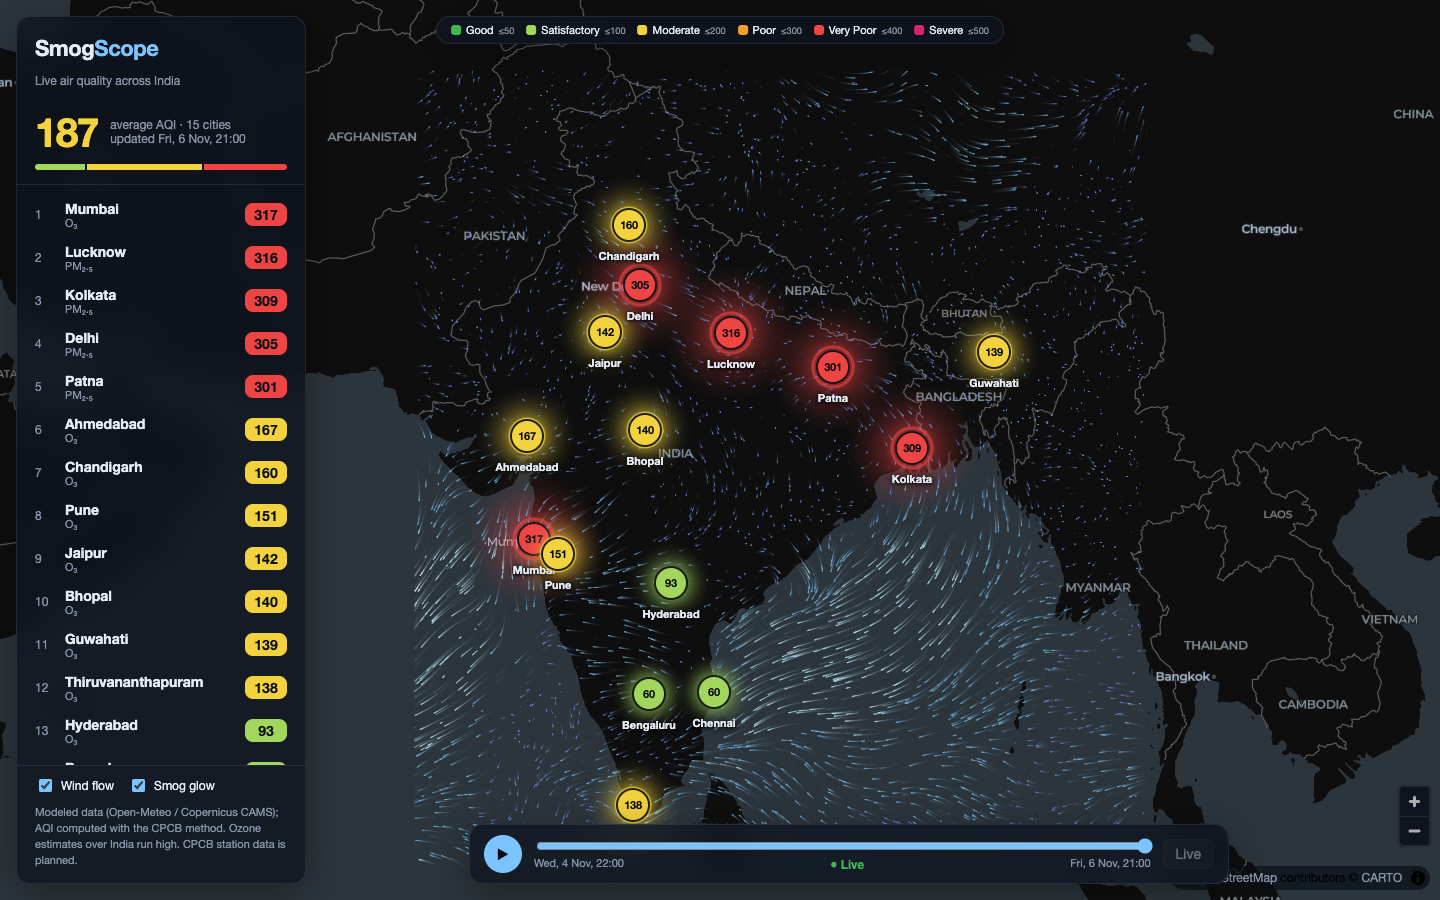
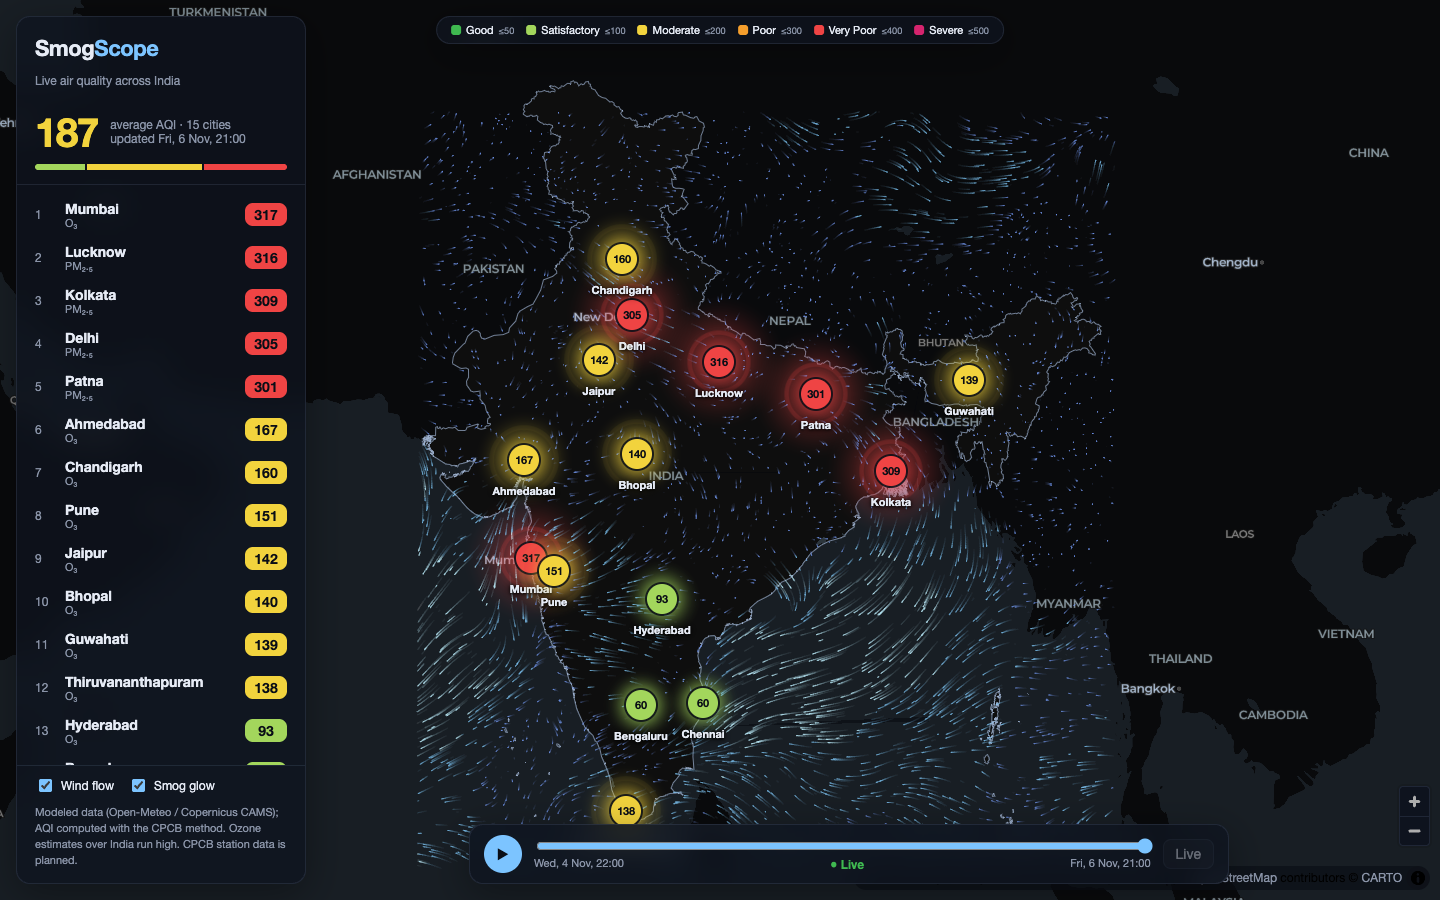
Show India's official boundary (Survey of India) on the map
- Hide the OSM-based basemap border layers, which use de facto lines in J&K/Ladakh
- Draw India's official outline (Survey of India via DataMeet, CC-BY-SA) with an
  outside-India dimming mask, below basemap labels; attribution in map credits
- scripts/simplify_boundary.py: 281,810 -> 4,884 points (78 KB), closed-ring-safe RDP
- tests/test_boundary.py: point-in-polygon checks (PoK, Gilgit, Aksai Chin inside;
  Lahore, Islamabad, Kathmandu outside) and the 37N northern tip
- Initial view fits the full official extent; design doc Q37; README updated

diff --git a/web/src/components/MapView.tsx b/web/src/components/MapView.tsx
@@ -6,9 +6,45 @@ import { CATEGORIES, categoryInfo, colorOf } from '../aqi'
 import WindLayer from './WindLayer'
 
 // Free vector basemap (CARTO Dark Matter, OpenStreetMap data), no API key needed.
-// Note: OSM-based tiles draw international boundaries per OSM conventions, which
-// differ from India's official map in disputed areas (see design-qa.md, Q30).
 const STYLE_URL = 'https://basemaps.cartocdn.com/gl/dark-matter-gl-style/style.json'
+
+// The basemap draws borders the OSM way (de facto lines in Jammu & Kashmir and
+// Ladakh). These layers are hidden and India's OFFICIAL boundary (Survey of India)
+// is drawn instead, from web/public/india-boundary.geojson (design-qa.md, Q37).
+const BASEMAP_BORDER_LAYERS = ['boundary_country_outline', 'boundary_country_inner', 'boundary_state', 'boundary_county']
+const BOUNDARY_URL = '/india-boundary.geojson'
+
+type IndiaBoundary = GeoJSON.FeatureCollection<GeoJSON.MultiPolygon>
+
+/** A world-sized polygon with India cut out as holes: used to dim everything outside India. */
+function outsideMask(india: IndiaBoundary): GeoJSON.Feature<GeoJSON.Polygon> {
+  const world = [[-180, -85], [180, -85], [180, 85], [-180, 85], [-180, -85]]
+  const holes = india.features.flatMap((f) => f.geometry.coordinates.map((polygon) => polygon[0]))
+  return { type: 'Feature', properties: {}, geometry: { type: 'Polygon', coordinates: [world, ...holes] } }
+}
+
+async function addOfficialBoundary(m: MlMap) {
+  for (const id of BASEMAP_BORDER_LAYERS) {
+    if (m.getLayer(id)) m.setLayoutProperty(id, 'visibility', 'none')
+  }
+  const india = (await (await fetch(BOUNDARY_URL)).json()) as IndiaBoundary
+  // Insert below the basemap's labels, so place names stay crisp on top.
+  const firstLabel = m.getStyle().layers.find((l) => l.type === 'symbol')?.id
+  m.addSource('india', { type: 'geojson', data: india })
+  m.addSource('outside-india', { type: 'geojson', data: outsideMask(india) })
+  m.addLayer({
+    id: 'outside-india', type: 'fill', source: 'outside-india',
+    paint: { 'fill-color': '#04060b', 'fill-opacity': 0.5 },
+  }, firstLabel)
+  m.addLayer({
+    id: 'india-border', type: 'line', source: 'india',
+    paint: {
+      'line-color': '#9fb3d1',
+      'line-opacity': 0.7,
+      'line-width': ['interpolate', ['linear'], ['zoom'], 3, 0.8, 6, 1.4, 9, 2.2],
+    },
+  }, firstLabel)
+}
 
 interface Props {
   cities: CityNow[]
@@ -45,18 +81,23 @@ export default function MapView(props: Props) {
     const m = new maplibregl.Map({
       container: containerRef.current!,
       style: STYLE_URL,
-      center: [80.5, 22.5],
-      zoom: window.innerWidth < 700 ? 3.3 : 4.1,
+      center: [80.5, 23.4],
+      zoom: window.innerWidth < 700 ? 3.25 : 3.95,  // fits India's full official extent, 6.7°N to 37.1°N
       minZoom: 3,
       maxZoom: 9,
       maxBounds: [[50, -5], [112, 42]],
-      attributionControl: { compact: true },
+      attributionControl: {
+        compact: true,
+        customAttribution: 'India boundary: Survey of India via DataMeet (CC-BY-SA)',
+      },
       dragRotate: false,
       pitchWithRotate: false,
     })
     m.touchZoomRotate.disableRotation()
     m.addControl(new maplibregl.NavigationControl({ showCompass: false }), 'bottom-right')
     m.on('load', () => {
+      addOfficialBoundary(m).catch((e) => console.error('Could not load India boundary', e))
+
       // "Smog glow": a large, fully blurred circle per city, COLORED BY ITS AQI and
       // sized by it (worse air = bigger haze). Not a heatmap: a heatmap colors by
       // point DENSITY, so 15 isolated cities would all glow "low" (Q31).

diff --git a/scripts/simplify_boundary.py b/scripts/simplify_boundary.py
@@ -1,0 +1,95 @@
+"""Build web/public/india-boundary.geojson: India's official boundary, simplified for the web.
+
+Source: DataMeet "india-soi.geojson", dissolved from Survey of India / Census 2011 maps
+        https://github.com/datameet/maps/tree/master/Country  (license CC-BY-SA 2.5 / ODbL)
+        It follows the official boundary of India, including Jammu & Kashmir and Ladakh
+        in full (PoK, Gilgit-Baltistan, Aksai Chin), unlike OSM-based basemaps.
+
+Usage:  python scripts/simplify_boundary.py india-soi.geojson web/public/india-boundary.geojson 0.01
+
+Steps: Ramer-Douglas-Peucker simplification (tolerance in degrees; 0.01 is ~1 km),
+coordinates rounded to 3 decimals (~100 m), slivers under ~2 x 2 km dropped, then
+point-in-polygon checks on known locations. See design-qa.md, Q37.
+"""
+import json, sys
+
+src, dst, tol = sys.argv[1], sys.argv[2], float(sys.argv[3])
+
+def rdp(pts, eps):
+    """Iterative Ramer-Douglas-Peucker on an open polyline."""
+    keep = [False] * len(pts); keep[0] = keep[-1] = True
+    stack = [(0, len(pts) - 1)]
+    while stack:
+        a, b = stack.pop()
+        (x1, y1), (x2, y2) = pts[a], pts[b]
+        dx, dy = x2 - x1, y2 - y1
+        norm = (dx * dx + dy * dy) ** 0.5 or 1e-12
+        best, idx = -1.0, -1
+        for i in range(a + 1, b):
+            x, y = pts[i]
+            d = abs(dy * x - dx * y + x2 * y1 - y2 * x1) / norm
+            if d > best: best, idx = d, i
+        if best > eps:
+            keep[idx] = True
+            stack += [(a, idx), (idx, b)]
+    return [p for p, k in zip(pts, keep) if k]
+
+def simplify_ring(ring):
+    # A closed ring starts and ends at the same point, so RDP's baseline would have
+    # zero length. Split at the point farthest from the start; simplify each half.
+    if len(ring) > 4:
+        x0, y0 = ring[0]
+        k = max(range(len(ring)), key=lambda i: (ring[i][0] - x0) ** 2 + (ring[i][1] - y0) ** 2)
+        out = rdp(ring[: k + 1], tol)[:-1] + rdp(ring[k:], tol)
+    else:
+        out = ring
+    out = [[round(x, 3), round(y, 3)] for x, y in out]
+    return out if len(out) >= 4 else None
+
+def ring_area(r):
+    return abs(sum(x1 * y2 - x2 * y1 for (x1, y1), (x2, y2) in zip(r, r[1:]))) / 2
+
+geom = json.load(open(src))["features"][0]["geometry"]
+polys = geom["coordinates"] if geom["type"] == "MultiPolygon" else [geom["coordinates"]]
+out_polys = []
+for poly in polys:
+    rings = [simplify_ring(r) for r in poly]
+    if rings[0] is None or ring_area(rings[0]) < 0.0004:   # drop specks smaller than ~2 km x 2 km
+        continue
+    out_polys.append([rings[0]] + [r for r in rings[1:] if r])
+
+def inside(pt, polys):
+    x, y = pt; hit = False
+    for poly in polys:
+        for ring in poly:
+            for (x1, y1), (x2, y2) in zip(ring, ring[1:]):
+                if (y1 > y) != (y2 > y) and x < (x2 - x1) * (y - y1) / (y2 - y1) + x1:
+                    hit = not hit
+    return hit
+
+checks = {  # (lon, lat): expected inside India's official boundary?
+    "New Delhi": ((77.21, 28.61), True),
+    "Srinagar": ((74.80, 34.08), True),
+    "Muzaffarabad (PoK)": ((73.47, 34.37), True),
+    "Gilgit (Gilgit-Baltistan)": ((74.31, 35.92), True),
+    "Aksai Chin": ((79.50, 35.20), True),
+    "Port Blair (Andaman)": ((92.73, 11.62), True),
+    "Lahore (Pakistan)": ((74.34, 31.55), False),
+    "Islamabad (Pakistan)": ((73.05, 33.68), False),
+    "Kathmandu (Nepal)": ((85.32, 27.71), False),
+    "Dhaka (Bangladesh)": ((90.41, 23.81), False),
+}
+ok = True
+for name, (pt, expected) in checks.items():
+    got = inside(pt, out_polys)
+    ok &= got == expected
+    print(f"{'✓' if got == expected else '✗'} {name}: inside={got}")
+
+n_in = sum(len(r) for p in polys for r in p); n_out = sum(len(r) for p in out_polys for r in p)
+fc = {"type": "FeatureCollection", "features": [{
+    "type": "Feature",
+    "properties": {"name": "India", "source": "Survey of India State Map via DataMeet (CC-BY-SA 2.5 / ODbL), simplified"},
+    "geometry": {"type": "MultiPolygon", "coordinates": out_polys},
+}]}
+json.dump(fc, open(dst, "w"), separators=(",", ":"))
+print(f"points {n_in} -> {n_out}, polygons {len(polys)} -> {len(out_polys)}, all checks passed: {ok}")

diff --git a/tests/test_boundary.py b/tests/test_boundary.py
@@ -1,0 +1,65 @@
+"""The map's India boundary must follow the official (Survey of India) depiction.
+
+Guards web/public/india-boundary.geojson against being replaced by, or
+regenerated from, a dataset that uses de facto (OSM-style) borders.
+"""
+import json
+
+import pytest
+
+from aqi_india.config import PROJECT_ROOT
+
+BOUNDARY = PROJECT_ROOT / "web" / "public" / "india-boundary.geojson"
+
+
+def _polygons():
+    geometry = json.loads(BOUNDARY.read_text())["features"][0]["geometry"]
+    assert geometry["type"] == "MultiPolygon"
+    return geometry["coordinates"]
+
+
+def _inside(point, polygons) -> bool:
+    """Ray casting: count how many polygon edges a ray to the east crosses."""
+    x, y = point
+    hit = False
+    for polygon in polygons:
+        for ring in polygon:
+            for (x1, y1), (x2, y2) in zip(ring, ring[1:]):
+                if (y1 > y) != (y2 > y) and x < (x2 - x1) * (y - y1) / (y2 - y1) + x1:
+                    hit = not hit
+    return hit
+
+
+@pytest.mark.parametrize("name, lon, lat", [
+    ("New Delhi", 77.21, 28.61),
+    ("Srinagar", 74.80, 34.08),
+    ("Leh", 77.58, 34.15),
+    ("Muzaffarabad (PoK)", 73.47, 34.37),
+    ("Gilgit (Gilgit-Baltistan)", 74.31, 35.92),
+    ("Aksai Chin", 79.50, 35.20),
+    ("Tawang (Arunachal Pradesh)", 91.86, 27.59),
+    ("Port Blair (Andaman)", 92.73, 11.62),
+])
+def test_inside_official_boundary(name, lon, lat):
+    assert _inside((lon, lat), _polygons()), f"{name} should be inside India's official boundary"
+
+
+@pytest.mark.parametrize("name, lon, lat", [
+    ("Lahore", 74.34, 31.55),
+    ("Islamabad", 73.05, 33.68),
+    ("Kathmandu", 85.32, 27.71),
+    ("Dhaka", 90.41, 23.81),
+    ("Colombo", 79.86, 6.93),
+])
+def test_outside_official_boundary(name, lon, lat):
+    assert not _inside((lon, lat), _polygons()), f"{name} should be outside India"
+
+
+def test_northernmost_point_is_in_gilgit_baltistan():
+    points = [p for poly in _polygons() for ring in poly for p in ring]
+    lon, lat = max(points, key=lambda p: p[1])
+    assert lat > 37.0 and 74 < lon < 76   # official northern tip, ~37°05'N
+
+
+def test_file_is_small_enough_for_the_web():
+    assert BOUNDARY.stat().st_size < 150_000

diff --git a/docs/design-qa.md b/docs/design-qa.md
@@ -680,8 +680,7 @@ initial download is ~360 KB gzipped, most of it MapLibre.
 
 **India's boundaries.** OpenStreetMap-based tiles draw international boundaries using OSM's conventions, which
 differ from India's official map in disputed regions. Indian law and policy expect maps published in India to show
-the official boundaries. For a personal portfolio project this is a known limitation. A public deployment in India
-should use a basemap that follows Survey of India boundaries, or draw boundaries from an official source.
+the official boundaries. This was first recorded here as a known limitation, and then **fixed** (Q37).
 
 ## Q31. Markers and smog glow, and the two bugs found by looking
 
@@ -792,6 +791,62 @@ than no test. Wait for conditions, not for fixed amounts of time.
 **Not automated yet:** visual appearance. The screenshots in `docs/images/` are the record. Automated visual-regression
 tests could come with the Phase 7 deployment work.
 
+# India's official boundary
+
+## Q37. How does the map show India's boundary according to Indian standards?
+
+**The problem.** The CARTO basemap is built from OpenStreetMap, which draws **de facto** lines in disputed areas:
+the Line of Control in Kashmir and the Line of Actual Control in Ladakh. India's official map (Survey of India) shows
+**all** of Jammu & Kashmir and Ladakh, including Pakistan-administered Kashmir (PoK), Gilgit-Baltistan and Aksai Chin,
+as part of India. Maps published in India are expected to follow the official depiction, so the basemap's border was wrong
+for an Indian dashboard.
+
+**The fix, in four parts:**
+
+1. **Hide the basemap's borders.** The style's `boundary_country_outline`, `boundary_country_inner`, `boundary_state` and
+   `boundary_county` layers are switched off when the map loads. (State lines in J&K and Ladakh also follow OSM's version.)
+2. **Draw the official outline ourselves** from `web/public/india-boundary.geojson`, as a line layer.
+3. **Dim everything outside India** with a "mask": a world-sized polygon with India cut out as holes, filled
+   at 50% opacity. India stands out, and neighboring countries' internal borders (which also disappeared in step 1) matter less.
+4. **Insert both layers below the basemap's labels**, so place names stay readable on top.
+
+**Choosing the data.** The DataMeet maps repository offers three versions of India's outline:
+
+| File | Built from | License | Chosen? |
+|---|---|---|---|
+| `india-soi.geojson` | **Survey of India / Census 2011** maps, dissolved | CC-BY-SA 2.5 / ODbL | **✓ closest to "Indian standards"** |
+| `india-composite.geojson` | US State Dept. LSIB + other public sources, assembled to match the official claim | CC-0 | Fallback |
+| `india-osm.geojson` | OSM boundaries plus claimed areas | ODbL | ✗ |
+
+The Survey of India–derived file was chosen because it comes from the official source. Its license requires **attribution**,
+which is shown in the map's credits ("India boundary: Survey of India via DataMeet (CC-BY-SA)"), and **share-alike**: our
+simplified file is a derived work, so it carries the same license.
+
+**Making it web-sized.** The original is 12 MB with 281,810 points, far too large for a browser.
+`scripts/simplify_boundary.py` reduces it to **4,884 points (78 KB, 25 KB compressed)**:
+
+- **Ramer–Douglas–Peucker simplification** with a 0.01° (~1 km) tolerance: keep a point only if removing it would move
+  the line by more than the tolerance. At national zoom levels, 1 km is far less than one pixel.
+- Coordinates rounded to 3 decimals (~100 m), and specks smaller than ~2 km × 2 km dropped (618 → 154 polygons; the
+  Andaman, Nicobar and Lakshadweep islands remain).
+
+**A bug in the simplifier, worth remembering:** the first run deleted *every* polygon. RDP measures each point's distance
+from the line between the **first and last** points, but in a closed ring those are the **same point**. The "line"
+has zero length, every distance comes out as 0, and the ring collapses. The fix is to split each ring at the point
+farthest from its start and simplify the two halves. **Lesson:** an algorithm written for open lines needs care on closed shapes.
+
+**Verified, not assumed.** `tests/test_boundary.py` runs a **point-in-polygon test** (ray casting: count how many edges a
+ray to the east crosses; odd means inside) on the committed file:
+
+- **Inside:** New Delhi, Srinagar, Leh, Muzaffarabad (PoK), Gilgit, Aksai Chin, Tawang, Port Blair
+- **Outside:** Lahore, Islamabad, Kathmandu, Dhaka, Colombo
+- The northernmost point is above 37°N in Gilgit-Baltistan, matching the official northern tip.
+
+If anyone ever regenerates the file from a de facto–border dataset, these tests fail.
+
+**Also adjusted:** the initial map view moved slightly north and out (center 23.4°N, zoom 3.95) so the full official
+extent, from 6.7°N to 37.1°N, fits on a laptop screen.
+
 # Code reference: every function
 
 ## `aqi_india/config.py`
@@ -900,7 +955,7 @@ tests could come with the Phase 7 deployment work.
 - **`aqi.ts`**: AQI categories with colors, pulse speeds and health advice; `categoryInfo(aqi)`, `colorOf(aqi)`, pollutant labels with subscripts.
 - **`hooks.ts`**: `usePolling(fetcher, interval)` fetches and refreshes, keeping the last good data and cancelling on unmount;
   `usePrefersReducedMotion()`; `formatTime(iso)` in India time.
-- **`components/MapView.tsx`**: creates the MapLibre map once; keeps one HTML marker per city in sync with live or playback AQI;
+- **`components/MapView.tsx`**: creates the MapLibre map once; hides the basemap's borders and draws India's official boundary with an outside-India mask (`addOfficialBoundary`, `outsideMask`, Q37); keeps one HTML marker per city in sync with live or playback AQI;
   manages the smog-glow layer; flies to the selected city (Q30, Q31).
 - **`components/WindLayer.tsx`**: the particle system (Q32). `sampleWind(grid, lon, lat)` does the bilinear interpolation, exported for tests.
 - **`components/CityPanel.tsx`**: the city detail panel: animated AQI, advice, sub-index bars, weather, a 72-hour chart
@@ -910,3 +965,10 @@ tests could come with the Phase 7 deployment work.
 - **`components/AnimatedNumber.tsx`**: a number that counts smoothly from its previous value to the new one.
 - **`styles.css`**: dark theme tokens, glass panels, marker pulse animation, the phone layout, reduced-motion rules.
 - **`components/WindLayer.test.ts`**: Vitest tests for `sampleWind`.
+
+## `scripts/` and boundary data
+
+- **`scripts/simplify_boundary.py`**: builds `web/public/india-boundary.geojson` from DataMeet's Survey of India outline:
+  closed-ring-safe RDP simplification, coordinate rounding, sliver removal, and point-in-polygon checks (Q37).
+- **`web/public/india-boundary.geojson`**: India's official boundary, simplified (CC-BY-SA 2.5 / ODbL, attribution in the map).
+- **`tests/test_boundary.py`**: guards the official depiction (13 locations, the northern tip, and file size).

diff --git a/README.md b/README.md
@@ -17,6 +17,7 @@ through an API to an animated map dashboard.
 - **72-hour playback:** scrub or play through the last three days on the map
 - **City panel:** animated AQI, health advice, pollutant sub-indices, weather, a 72-hour chart colored by category, and daily summaries
 - **Data quality:** flags impossible values, stuck sensors, and PM2.5 > PM10. Flagged data is kept but never used for the AQI.
+- **India's official boundary** (Survey of India), including all of Jammu & Kashmir and Ladakh, drawn over the basemap and tested
 - Works on phones; respects *reduced motion* settings
 
 <p>
@@ -49,7 +50,7 @@ CPCB ───────┴──▶ │       → daily summaries            
 | Storage | SQLite (WAL mode); moving to PostgreSQL + TimescaleDB later |
 | API | FastAPI, Pydantic, uvicorn |
 | Frontend | React 19, TypeScript, Vite, MapLibre GL, Canvas 2D, Framer Motion, Recharts |
-| Tests | pytest (75), Vitest (3) |
+| Tests | pytest (90), Vitest (3) |
 
 ## Quick start
 
@@ -106,4 +107,4 @@ Interactive documentation: `http://localhost:8000/docs`.
 - [ ] Phase 6: satellite data: fire hotspots, smoke segmentation, PM2.5 where there are no stations
 - [ ] Phase 7: PostgreSQL + TimescaleDB, Docker, deployment, alerts
 
-Map data © OpenStreetMap contributors, basemap © CARTO. Air quality and weather © Open-Meteo (CAMS / national weather services).
+Map data © OpenStreetMap contributors, basemap © CARTO. India boundary: Survey of India via [DataMeet](https://github.com/datameet/maps) (CC-BY-SA 2.5 / ODbL; the simplified file in `web/public/` carries the same license). Air quality and weather © Open-Meteo (CAMS / national weather services).
